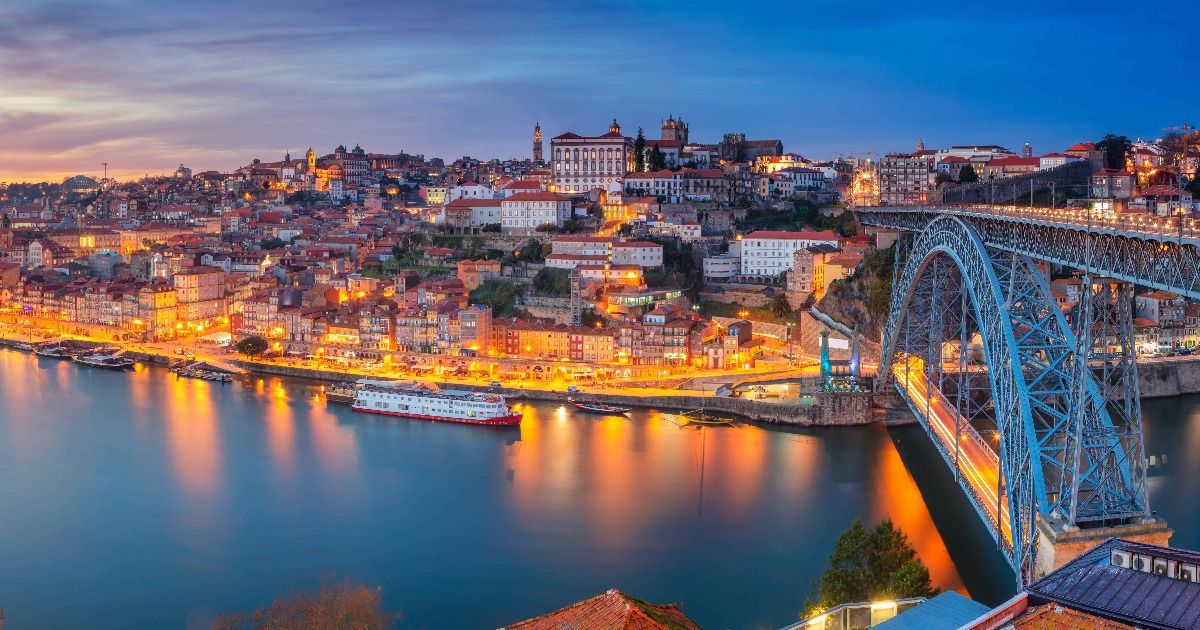
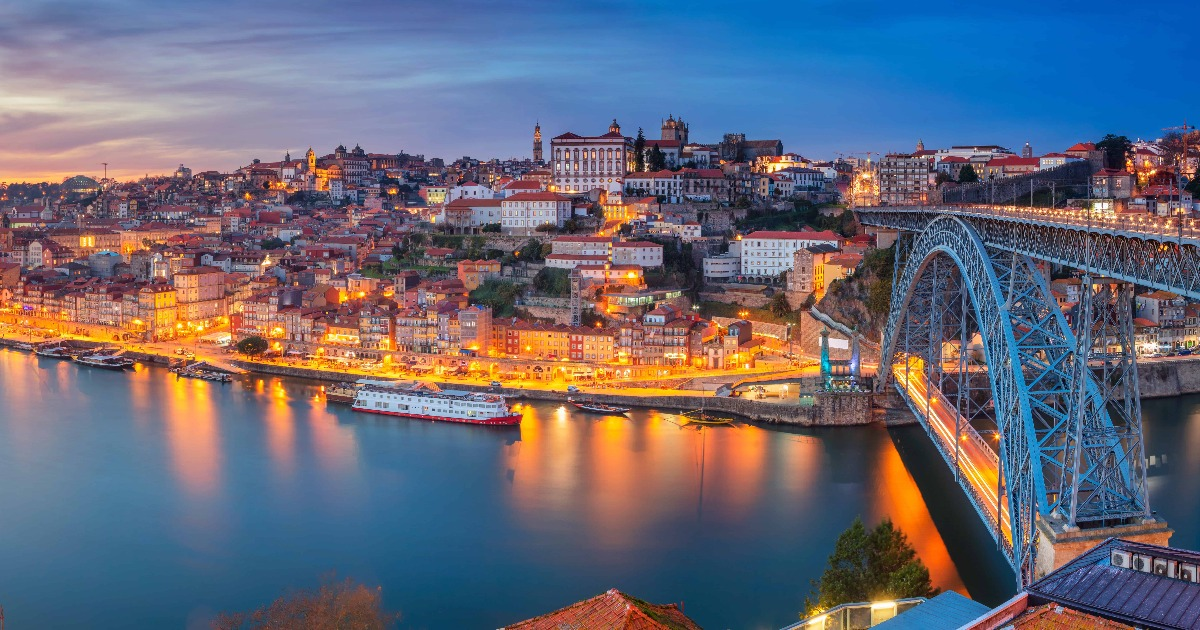
Clean up meta tags and rename image to .jpg

Changed region(s): [[0.74, 0.573, 0.7708, 0.6333], [0.925, 0.9952, 0.9558, 1.0]]

diff --git a/public/index.html b/public/index.html
@@ -2,12 +2,18 @@
 <html lang="en">
 
 <head>
+  <meta http-equiv="content-type" content="text/html; charset=utf-8">
+  <meta charset="utf-8">
+  <meta name="viewport" content="width=device-width,initial-scale=1,maximum-scale=1,user-scalable=no">
+  <meta name="theme-color" content="#000000">
+  <meta name="description" content="Interactive map of Porto">
+
   <!-- Open Graph / Facebook -->
   <meta property="og:type" content="website">
   <meta property="og:url" content="https://porto-map.netlify.app/">
   <meta property="og:title" content="Porto Map">
   <meta property="og:description" content="Interactive map of Porto">
-  <meta property="og:image" content="https://porto-map.netlify.app/porto.jpeg">
+  <meta property="og:image" content="https://porto-map.netlify.app/porto.jpg">
   <meta property="og:image:type" content="image/jpeg">
   <meta property="og:image:width" content="1200">
   <meta property="og:image:height" content="630">
@@ -15,24 +21,18 @@
   <meta property="og:site_name" content="Porto Map">
   <meta property="og:locale" content="en_US">
   <meta property="og:determiner" content="the">
-  <meta property="og:image:secure_url" content="https://porto-map.netlify.app/porto.jpeg">
+  <meta property="og:image:secure_url" content="https://porto-map.netlify.app/porto.jpg">
 
   <!-- Twitter -->
   <meta name="twitter:card" content="summary_large_image">
   <meta name="twitter:url" content="https://porto-map.netlify.app/">
   <meta name="twitter:title" content="Porto Map">
   <meta name="twitter:description" content="Interactive map of Porto">
-  <meta name="twitter:image" content="https://porto-map.netlify.app/porto.jpeg">
+  <meta name="twitter:image" content="https://porto-map.netlify.app/porto.jpg">
 
-  <meta http-equiv="content-type" content="text/html; charset=utf-8">
-  <meta charset="utf-8">
   <link rel="icon" type="image/jpg" href="/nata.jpg" sizes="192x192">
   <link rel="apple-touch-icon" type="image/jpg" href="/nata.jpg" sizes="192x192">
   <link rel="manifest" href="/manifest.json">
-  <meta name="viewport" content="width=device-width,initial-scale=1,maximum-scale=1,user-scalable=no">
-  <meta name="theme-color" content="#000000">
-  <meta name="description" content="Interactive map of Porto">
-
   <title>Porto Map</title>
   <style>
     .gm-style>div>div:last-child>div:not(:empty) {
